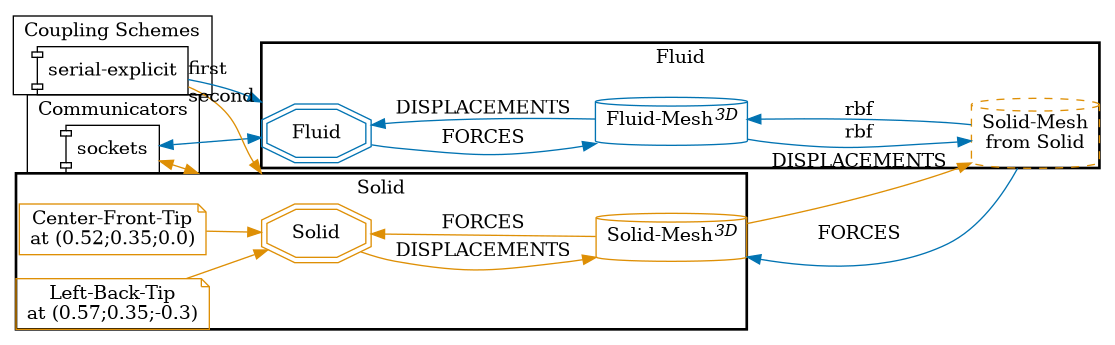
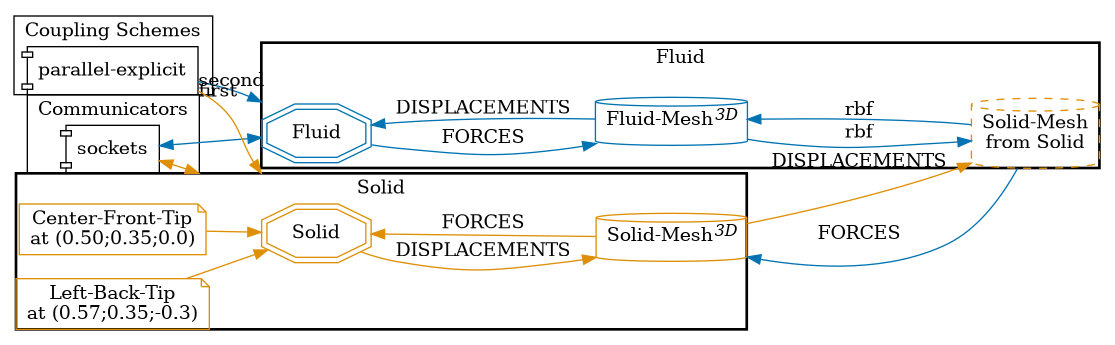
Final editss + Parallel Scheme

Changed region(s): [[0.0, 0.058, 0.2439, 0.3188], [0.1525, 0.4638, 0.183, 0.4928], [0.061, 0.6667, 0.0915, 0.6957]]

diff --git a/pulsating-flow-over-flexible-flap-3d-case1/README.md b/pulsating-flow-over-flexible-flap-3d-case1/README.md
@@ -4,7 +4,7 @@ This is a variant of the "Pulsating flow over flexible flap" test case discussed
 participant is modelled in OpenRadioss.
 
 Given the current restrictions presented when interfacing OpenRadioss (an explicit solver) to the preCICE coupling library, the `coupling-scheme` choice implemented in this repository 
-fell on a `serial-explicit` configuration over the `parallel-implicit` scheme implemented in the paper mentioned above. 
+fell on a `parallel-explicit` configuration over the `parallel-implicit` scheme implemented in the paper mentioned above. 
 
 ![preCICE configuration visualization](images/pulsating-flow-over-flexible-flap-3d-precice-config.png)
 
